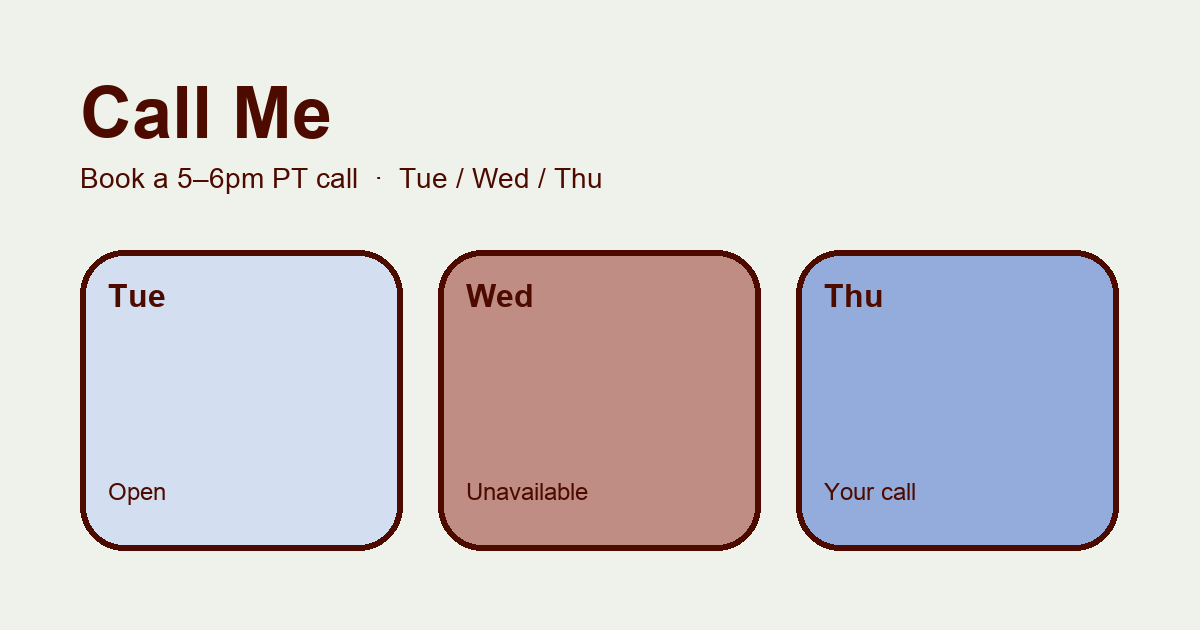
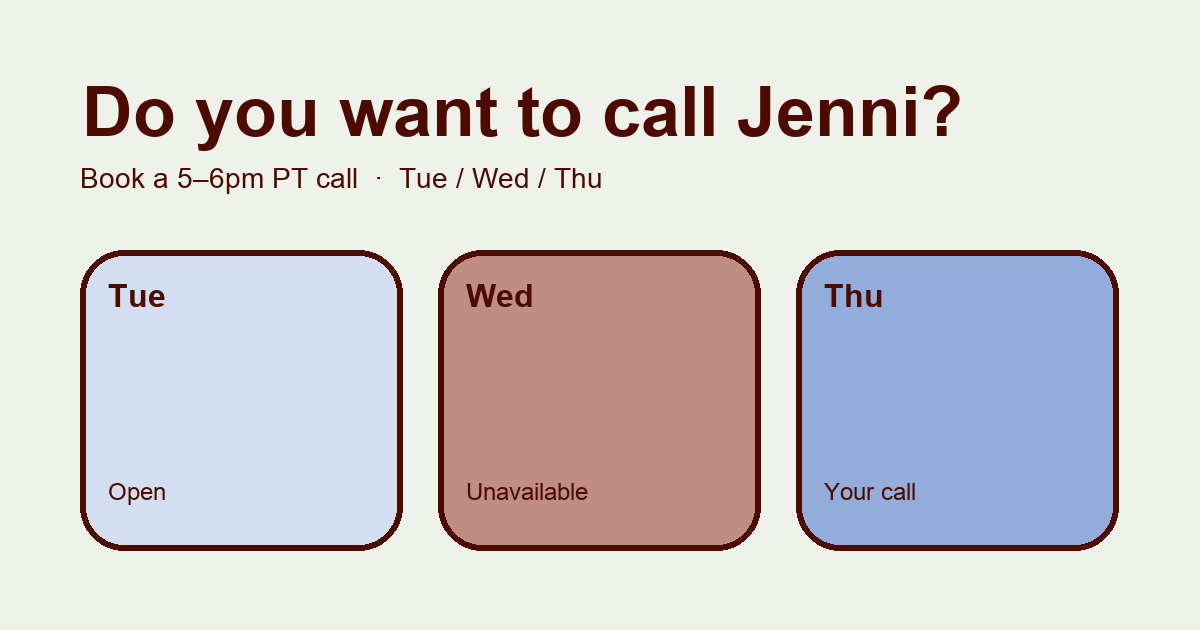
Roll calendar forward and default new weeks open

Changed region(s): [[0.0617, 0.1206, 0.8017, 0.2413]]

diff --git a/src/firebase.js b/src/firebase.js
@@ -9,7 +9,7 @@ import {
   runTransaction,
   setDoc,
 } from "firebase/firestore";
-import { emptyNames, emptyWeekData, getCallWeek, isSlotPast } from "./week.js";
+import { CALL_DAYS, emptyNames, emptyWeekData, getCallWeek, isSlotPast } from "./week.js";
 
 const firebaseConfig = {
   apiKey: import.meta.env.VITE_FIREBASE_API_KEY,
@@ -114,8 +114,21 @@ function namesCollection(weekId) {
 export async function ensureWeek(weekId) {
   const ref = weekRef(weekId);
   const snap = await getDoc(ref);
+  const defaults = emptyWeekData();
   if (!snap.exists()) {
-    await setDoc(ref, emptyWeekData());
+    await setDoc(ref, defaults);
+    return;
+  }
+  const data = snap.data();
+  if (data.availabilitySaved) {
+    return;
+  }
+  const taken = { ...defaults.taken, ...data.taken };
+  const available = { ...defaults.available, ...data.available };
+  const untouched =
+    CALL_DAYS.every((day) => !taken[day]) && CALL_DAYS.every((day) => available[day] === false);
+  if (untouched) {
+    await setDoc(ref, { available: defaults.available }, { merge: true });
   }
 }
 
@@ -153,10 +166,15 @@ export async function saveAvailability(weekId, available, preferred) {
   await runTransaction(getDb(), async (transaction) => {
     const snap = await transaction.get(ref);
     if (!snap.exists()) {
-      transaction.set(ref, { ...emptyWeekData(), available, preferred });
+      transaction.set(ref, {
+        ...emptyWeekData(),
+        available,
+        preferred,
+        availabilitySaved: true,
+      });
       return;
     }
-    transaction.update(ref, { available, preferred });
+    transaction.update(ref, { available, preferred, availabilitySaved: true });
   });
 }
 

diff --git a/src/week.js b/src/week.js
@@ -59,11 +59,16 @@ export function addIsoDays(isoDate, days) {
 
 export function getCallWeek(now = new Date()) {
   const today = pacificDateParts(now);
-  const offset = DAYS_SINCE_FRIDAY[today.weekday];
-  if (offset === undefined) {
-    throw new Error(`Unexpected weekday: ${today.weekday}`);
+  const weekStart = { iso: today.iso, weekday: today.weekday };
+  if (today.weekday === "Thu" && today.hour >= SLOT_END_HOUR) {
+    weekStart.iso = addIsoDays(today.iso, 1);
+    weekStart.weekday = "Fri";
   }
-  const friday = addIsoDays(today.iso, -offset);
+  const offset = DAYS_SINCE_FRIDAY[weekStart.weekday];
+  if (offset === undefined) {
+    throw new Error(`Unexpected weekday: ${weekStart.weekday}`);
+  }
+  const friday = addIsoDays(weekStart.iso, -offset);
   const dates = {
     sun: addIsoDays(friday, 2),
     mon: addIsoDays(friday, 3),
@@ -109,7 +114,7 @@ export function useCallWeek() {
 
 export function emptyWeekData() {
   return {
-    available: { tue: false, wed: false, thu: false },
+    available: { tue: true, wed: true, thu: true },
     preferred: { tue: false, wed: false, thu: false },
     taken: { tue: false, wed: false, thu: false },
   };

diff --git a/src/pages/Owner.jsx b/src/pages/Owner.jsx
@@ -41,6 +41,7 @@ export default function Owner() {
     if (user?.role !== "owner") {
       return undefined;
     }
+    hydrated.current = false;
     let unsubWeek = () => {};
     let unsubNames = () => {};
     ensureWeek(week.weekId)
